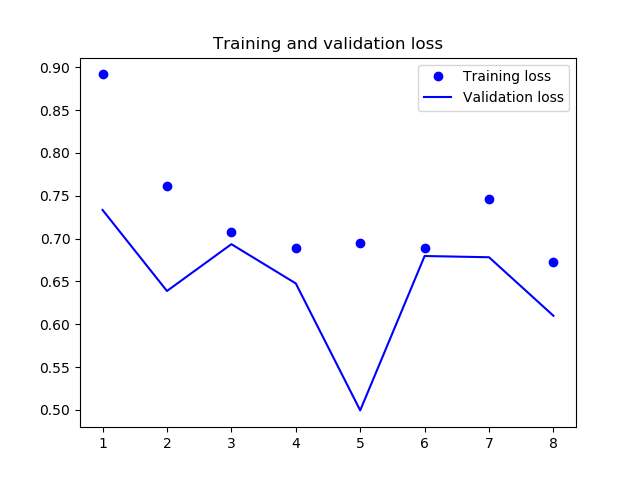
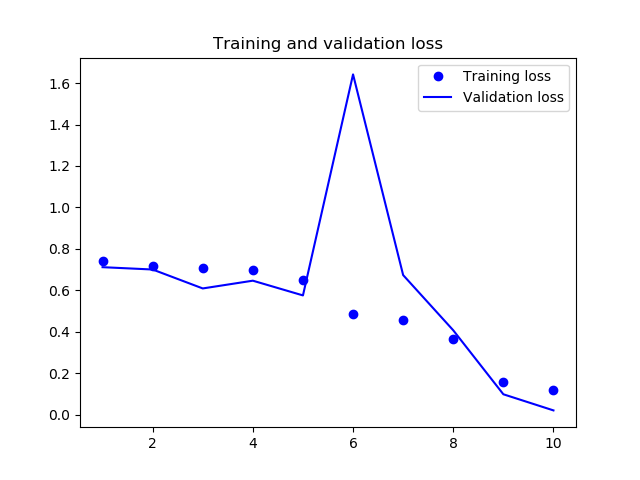
added vgg16

diff --git a/model.py b/model.py
@@ -3,8 +3,8 @@ import os
 from keras import layers
 from keras import models
 from keras import optimizers
+from keras import applications
 from keras.callbacks import ModelCheckpoint
-from keras.applications import VGG16
 from keras.preprocessing.image import ImageDataGenerator
 
 
@@ -27,12 +27,12 @@ class ModelLoader():
             self.optimizer = optimizers.RMSprop(lr=1e-4)
             self.metrics = ['acc']
 
-        elif self.model_name == 'small_binary_cnn_v1':
-            print('Loading Small Binary CNN v0')
+        elif self.model_name == 'vgg16_v0':
+            print('CNN vgg16')
             self.input_shape = (image_size + (3,))
-            self.model = self.small_cnn_v0()
+            self.model = self.small_vgg16_v0()
             self.loss = 'binary_crossentropy'
-            self.optimizer = optimizers.RMSprop(lr=1e-4)
+            self.optimizer = optimizers.RMSprop(lr=1e-5)
             self.metrics = ['acc']
 
         else:
@@ -62,5 +62,29 @@ class ModelLoader():
 
         return model
 
-    def small_cnn_v1(self):
-        pass
+    def small_vgg16_v0(self):
+
+        conv_base = applications.VGG16(weights="imagenet",
+                                       include_top=False,
+                                       input_shape=self.input_shape)
+        conv_base.trainable = True
+        set_trainable = False
+        for layer in conv_base.layers:
+            if layer.name == 'block5_conv1':
+                set_trainable = True
+            if set_trainable:
+                layer.trainable = True
+            else:
+                layer.trainable = False
+
+        model = models.Sequential()
+        model.add(conv_base)
+        model.add(layers.Flatten())
+        model.add(layers.Dense(256, activation='relu'))
+        model.add(layers.Dense(1, activation='sigmoid'))
+
+        return model
+        
+
+        
+        

diff --git a/train.py b/train.py
@@ -66,13 +66,24 @@ def train(model_name, dataset_name):
     image_size = (320, 240)
 
     # Training parameters
-    n_epochs = 10
-    batch_size = 1
-    steps_per_epoch = n_images['train'] // batch_size // n_epochs
+    n_epochs = 20
+    batch_size = 10
+    steps_per_epoch = n_images['train'] // batch_size #// n_epochs
     
     # Load data generators
     
-    train_datagen = ImageDataGenerator(rescale=1. / 255)
+    # train_datagen = ImageDataGenerator(rescale=1. / 255)
+
+    train_datagen = ImageDataGenerator(
+        rescale=1. / 255,
+        rotation_range=40,
+        width_shift_range=0.2,
+        height_shift_range=0.2,
+        shear_range=0.2,
+        zoom_range=0.2,
+        horizontal_flip=True,
+        fill_mode='nearest')
+
     test_datagen = ImageDataGenerator(rescale=1. / 255)
 
     class_mode = 'binary'
@@ -130,7 +141,7 @@ def train(model_name, dataset_name):
 
 if __name__=='__main__':
 
-    model_name = 'small_binary_cnn_v0'
+    model_name = 'vgg16_v0'
     dataset_name = 'robot_human'
 
     train(model_name, dataset_name)
